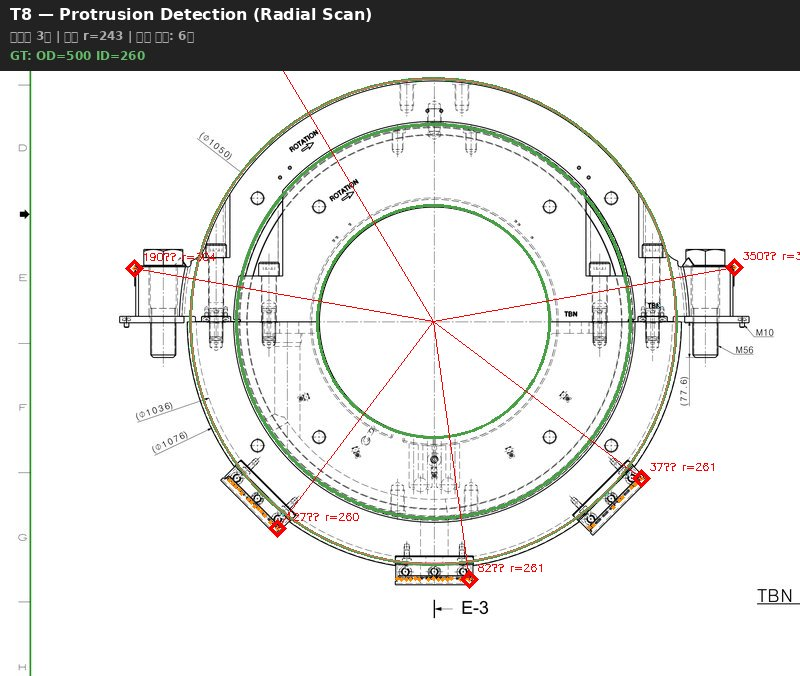
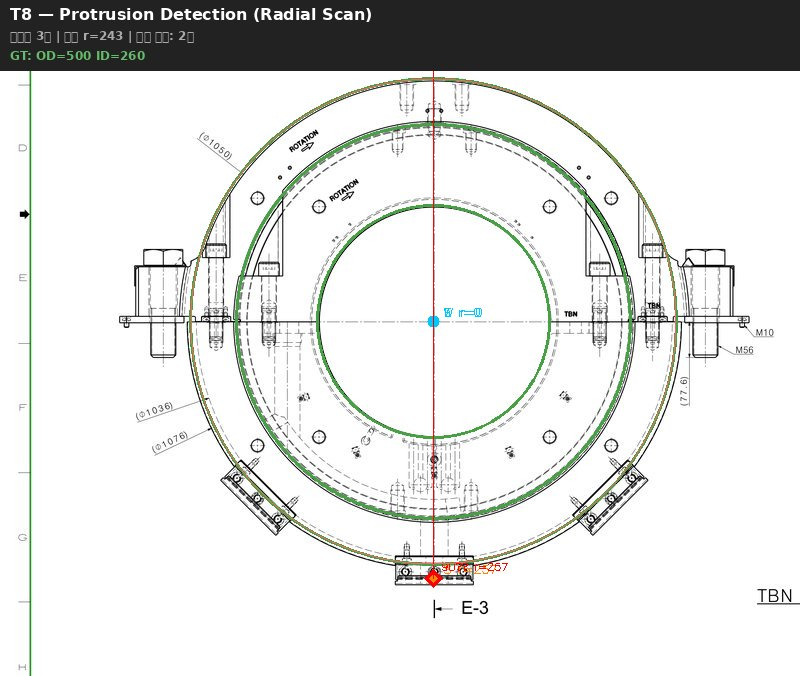
fix: 돌출부 검출을 동서남북 4방향 최대치 스캔으로 변경
360도 방사 스캔 → N/S/E/W 4방향만 스캔.
이진화 + OPEN 모폴로지로 치수선/텍스트 제거.
결과: N/S만 돌출(보조도/하부 구조), E/W는 외원 이내.
문서 테이블 + 범례를 4방향 결과로 업데이트.

diff --git a/blueprint-ai-bom/scripts/generate_protrusion_detect.py b/blueprint-ai-bom/scripts/generate_protrusion_detect.py
@@ -74,64 +74,59 @@ def detect_concentric_alt(gray, min_r, max_r):
     return circles
 
 
-def radial_solid_scan(gray, cx, cy, outer_r, n_angles=360, max_scan_r=None):
-    """중심에서 방사 방향으로 채워진 영역(solid) 스캔
+def cardinal_max_scan(gray, cx, cy, outer_r, max_scan_r=None):
+    """동서남북 4방향 최대 solid 범위 스캔
 
-    Canny 엣지 대신 이진화 → 채워진 픽셀만 스캔.
-    치수 텍스트/선은 얇아서 연속 solid가 아니므로 자연 필터됨.
-
-    핵심: 외원 바깥에서 연속 solid 구간의 끝 = 돌출부 끝점.
-    치수선/텍스트는 solid 폭이 좁아(1~3px) min_thickness 필터로 제거.
+    원 중심에서 N/S/E/W 각 방향으로 이진화 solid를 스캔하여
+    가장 먼 solid 픽셀 = 해당 방향의 형상 최대치.
 
     Returns:
-        radial_profile: [(angle_deg, max_solid_r, x, y), ...]
-        protrusions: radial_profile 중 outer_r보다 먼 것들
+        radial_profile: [(angle_deg, max_r, x, y), ...] (4개)
+        protrusions: outer_r보다 먼 것들
     """
     h, w = gray.shape
     if max_scan_r is None:
-        max_scan_r = int(outer_r * 1.5)
+        max_scan_r = int(outer_r * 2.0)
 
-    # 이진화 (검은 부분 = 도면 형상)
     _, binary = cv2.threshold(gray, 0, 255,
                               cv2.THRESH_BINARY_INV + cv2.THRESH_OTSU)
-
-    # 모폴로지 열기 — 얇은 선(치수선/텍스트) 제거, 두꺼운 형상만 유지
     kernel = cv2.getStructuringElement(cv2.MORPH_ELLIPSE, (5, 5))
     solid = cv2.morphologyEx(binary, cv2.MORPH_OPEN, kernel)
 
+    directions = [
+        ("N", 0, -1),   # 위
+        ("S", 0, 1),    # 아래
+        ("E", 1, 0),    # 오른쪽
+        ("W", -1, 0),   # 왼쪽
+    ]
+    angle_map = {"E": 0, "S": 90, "W": 180, "N": 270}
+
     radial_profile = []
 
-    for i in range(n_angles):
-        angle_deg = i * 360.0 / n_angles
-        angle_rad = np.radians(angle_deg)
-        dx = np.cos(angle_rad)
-        dy = np.sin(angle_rad)
-
-        # 외원 근처부터 바깥으로 스캔
-        # 연속 solid 구간의 마지막 위치 = 형상 끝
-        max_solid_r = 0
+    for dir_name, dx, dy in directions:
+        max_r = 0
         max_x, max_y = int(cx), int(cy)
         consecutive_empty = 0
 
-        for r_px in range(int(outer_r * 0.8), max_scan_r):
+        for r_px in range(1, max_scan_r):
             px = int(cx + r_px * dx)
             py = int(cy + r_px * dy)
             if 0 <= px < w and 0 <= py < h:
                 if solid[py, px] > 0:
-                    max_solid_r = r_px
+                    max_r = r_px
                     max_x, max_y = px, py
                     consecutive_empty = 0
                 else:
                     consecutive_empty += 1
-                    # 연속 빈 공간 30px 이상이면 형상 끝
-                    if consecutive_empty > 30 and max_solid_r > outer_r:
+                    if consecutive_empty > 30 and max_r > outer_r:
                         break
             else:
                 break
 
-        radial_profile.append((angle_deg, max_solid_r, max_x, max_y))
+        radial_profile.append((angle_map[dir_name], max_r, max_x, max_y))
+        print(f"    {dir_name}: max_r={max_r} ({max_x},{max_y})"
+              f"{' ← 돌출' if max_r > outer_r * 1.05 else ''}")
 
-    # 돌출부 = outer_r보다 5% 이상 먼 solid
     threshold = outer_r * 1.05
     protrusions = [p for p in radial_profile if p[1] > threshold]
 
@@ -185,15 +180,15 @@ def visualize(img, circles, radial_profile, protrusion_peaks, outer_r, name, gt)
     for ccx, ccy, r in circles:
         cv2.circle(canvas, (int(ccx), int(ccy)), int(r), (67, 160, 71), 2)
 
-    # 방사 프로파일 (연한 시안 — 외원 이내)
-    for angle_deg, edge_r, ex, ey in radial_profile:
-        if edge_r > 0 and edge_r <= outer_r * 1.05:
-            cv2.circle(canvas, (ex, ey), 1, (200, 200, 100), -1)
-
-    # 돌출부 영역 (주황)
-    for angle_deg, edge_r, ex, ey in radial_profile:
-        if edge_r > outer_r * 1.05:
-            cv2.circle(canvas, (ex, ey), 2, (0, 140, 255), -1)
+    # 4방향 최대치 마커 (파란 점)
+    dir_labels = {270: "N", 90: "S", 0: "E", 180: "W"}
+    for angle_deg, max_r, mx, my in radial_profile:
+        d = dir_labels.get(int(angle_deg), "?")
+        color_pt = (255, 200, 0) if max_r <= outer_r * 1.05 else (0, 140, 255)
+        cv2.circle(canvas, (mx, my), 6, color_pt, -1)
+        cv2.putText(canvas, f"{d} r={max_r}",
+                    (mx + 10, my - 5),
+                    cv2.FONT_HERSHEY_SIMPLEX, 0.4, color_pt, 1)
 
     # 돌출 끝점 (빨간 큰 마커 + 라벨)
     for peak in protrusion_peaks:
@@ -251,9 +246,9 @@ def run():
         print(f"  동심원: {len(circles)}개, 외원 r={outer_r:.0f}")
         print(f"  중심: ({cx:.0f}, {cy:.0f})")
 
-        # 방사 스캔 (solid 기반)
-        profile, protrusions = radial_solid_scan(gray, cx, cy, outer_r)
-        print(f"  방사 스캔: {len(profile)}방향, 돌출 {len(protrusions)}개")
+        # 동서남북 최대치 스캔
+        profile, protrusions = cardinal_max_scan(gray, cx, cy, outer_r)
+        print(f"  4방향 스캔, 돌출 {len(protrusions)}개")
 
         # 돌출부 클러스터링 → 끝점
         peaks = cluster_protrusions(protrusions)
